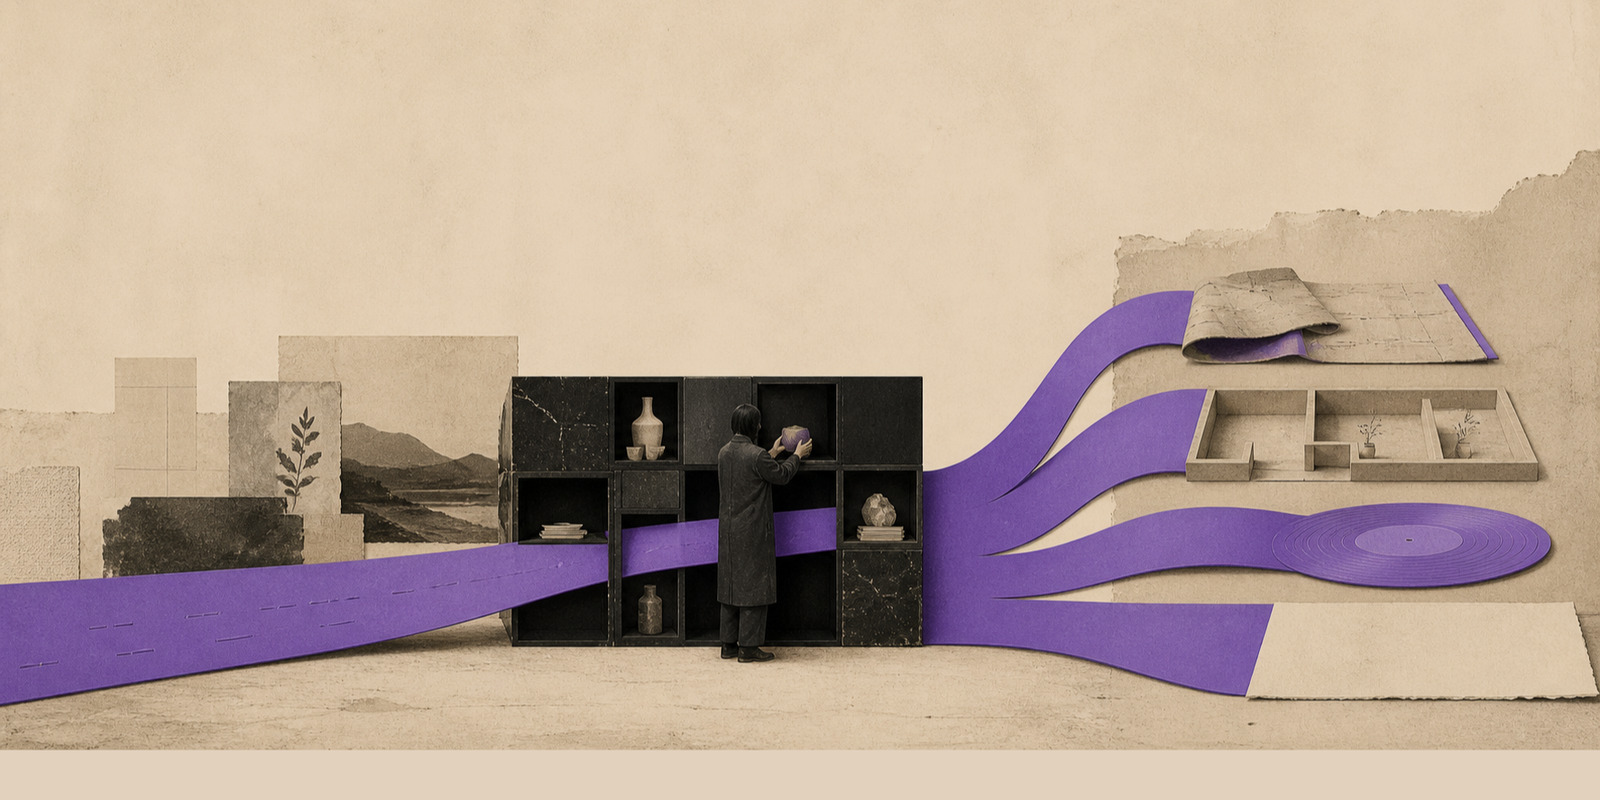
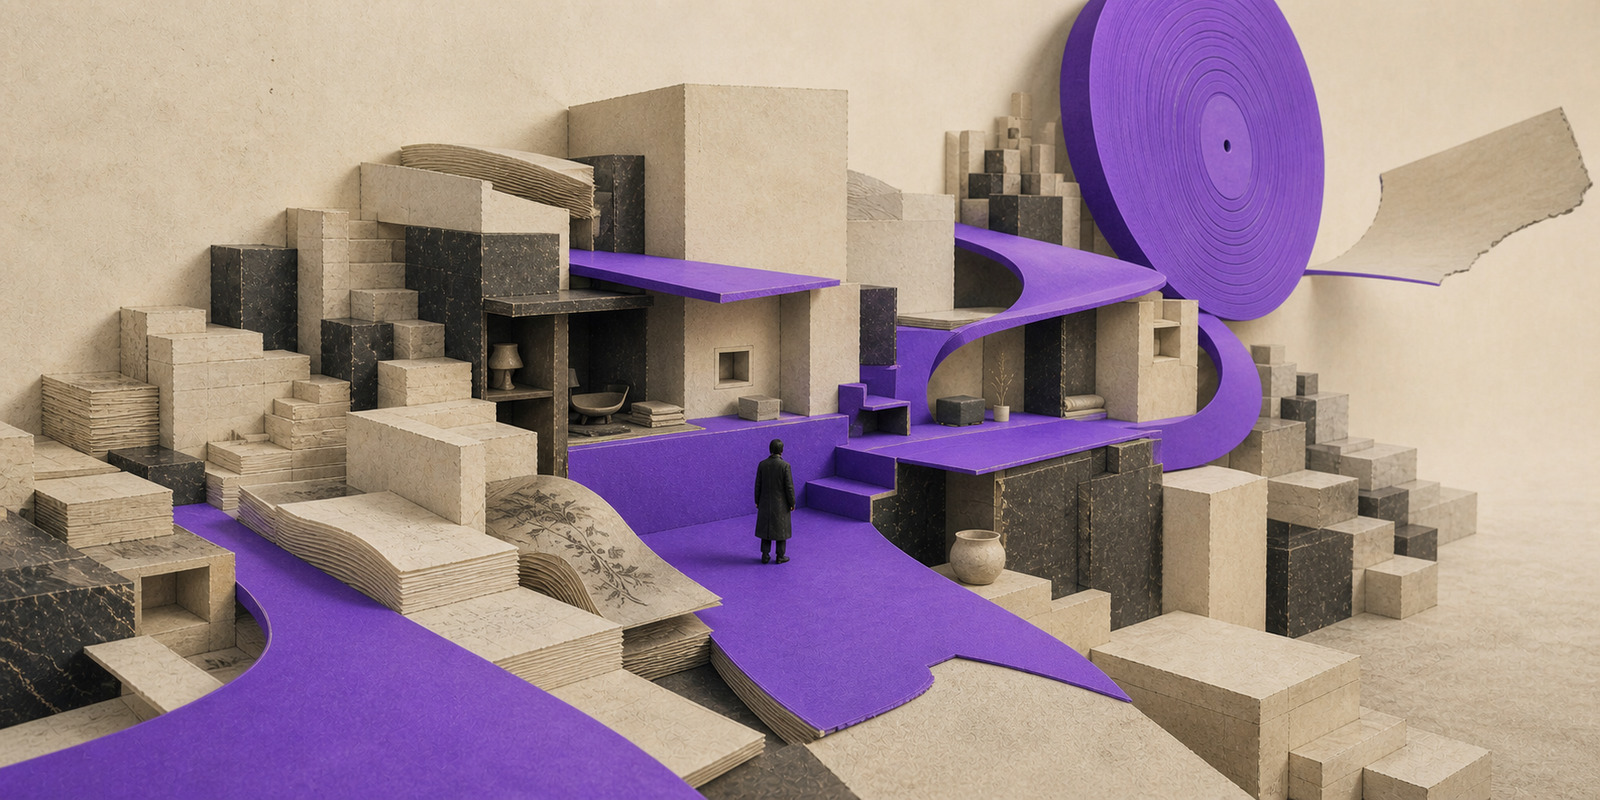
Let the Series 05 overview inhabit the same world as its three essays
The approved panorama replaces the frontal inventory diagram with one continuous purple material moving from record terrain through lived space into a monumental record, while the cache and social preview references advance together.

Constraint: Preserve all post copy and the three already deployed post heroes

Rejected: Reusing the prior split-branch banner | it no longer matched the depth and camera language of the post set

Confidence: high

Scope-risk: narrow

Directive: Keep the 20260808b cache version synchronized across manifest, loader, home, posts, sources, and tests

Tested: 66 Node tests; series-home QA gate; exact asset hash; desktop 1280 and mobile 390 browser QA

Not-tested: Live Pages, pending this commit deployment

diff --git a/series/onchain-storytelling/index.html b/series/onchain-storytelling/index.html
@@ -12,14 +12,14 @@
 <meta property="og:title" content="온체인 스토리텔링">
 <meta property="og:description" content="2023년 두 차례의 발표를 3년 뒤에 다시 쓴 포스팅 세 개. 창작의 주체가 어디로 옮겨가는가.">
 <meta property="og:url" content="https://kiheonshin.github.io/blog-post-assets/series/onchain-storytelling/">
-<meta property="og:image" content="https://kiheonshin.github.io/blog-post-assets/series/onchain-storytelling/assets/series-banner.jpg">
-<meta property="og:image:secure_url" content="https://kiheonshin.github.io/blog-post-assets/series/onchain-storytelling/assets/series-banner.jpg">
+<meta property="og:image" content="https://kiheonshin.github.io/blog-post-assets/series/onchain-storytelling/assets/series-banner.jpg?v=20260808b">
+<meta property="og:image:secure_url" content="https://kiheonshin.github.io/blog-post-assets/series/onchain-storytelling/assets/series-banner.jpg?v=20260808b">
 <meta property="og:image:type" content="image/jpeg">
 <meta property="og:image:width" content="1600">
 <meta property="og:image:height" content="800">
-<meta property="og:image:alt" content="밝은 보라색 기록의 띠가 인벤토리에서 옷·공간·음악·미술로 갈라지는 온체인 스토리텔링 파노라마">
+<meta property="og:image:alt" content="밝은 보라색 면이 종이 기록 지형과 생활 공간을 지나 거대한 레코드로 이어지는 온체인 스토리텔링 파노라마">
 <meta name="twitter:card" content="summary_large_image">
-<meta name="twitter:image" content="https://kiheonshin.github.io/blog-post-assets/series/onchain-storytelling/assets/series-banner.jpg">
+<meta name="twitter:image" content="https://kiheonshin.github.io/blog-post-assets/series/onchain-storytelling/assets/series-banner.jpg?v=20260808b">
 <script async src="https://www.googletagmanager.com/gtag/js?id=G-SQYBGPJFJ4"></script>
 <script>
 window.dataLayer=window.dataLayer||[];
@@ -292,7 +292,7 @@ main.idx-wide{width:min(100%,calc(var(--wide) + var(--gutter)*2))}
 .idx > .lead{margin:0 0 2rem;max-width:var(--measure)}
 </style>
 <link rel="stylesheet" href="../../assets/site.css?v=20260807j">
-<script type="module" src="../../assets/series-nav.js?v=20260808a"></script>
+<script type="module" src="../../assets/series-nav.js?v=20260808b"></script>
 </head>
 <body>
 <a class="skip" href="#main">본문으로 건너뛰기</a>

diff --git a/assets/content-manifest.js b/assets/content-manifest.js
@@ -331,9 +331,9 @@ export const contentLibrary = {
       topics: ["기록과 서사", "IP와 정체성", "현실과 가상"],
       keywords: ["온체인 스토리텔링", "TBA", "캐릭터 설계", "코-크리에이션"],
       href: "series/onchain-storytelling/",
-      cover: "series/onchain-storytelling/assets/series-banner.jpg?v=20260808a",
+      cover: "series/onchain-storytelling/assets/series-banner.jpg?v=20260808b",
       coverAlt:
-        "밝은 보라색 기록의 띠가 인벤토리에서 옷·공간·음악·미술로 갈라지는 온체인 스토리텔링 파노라마",
+        "밝은 보라색 면이 종이 기록 지형과 생활 공간을 지나 거대한 레코드로 이어지는 온체인 스토리텔링 파노라마",
       published: "2026-08-06",
       // 도슨트 미장착 — 음성 레인이 결속하면 status 를 올린다.
       assistantContext: {

diff --git a/index.html b/index.html
@@ -17,7 +17,7 @@
 <link rel="icon" href="assets/favicon.svg" type="image/svg+xml">
 <link rel="preload" href="series/aigc-creative-paradigm/assets/series-banner.jpg" as="image" fetchpriority="high">
 <link rel="stylesheet" href="assets/site.css?v=20260807j">
-<script type="module" src="assets/series-nav.js?v=20260808a"></script>
+<script type="module" src="assets/series-nav.js?v=20260808b"></script>
 <script async src="https://www.googletagmanager.com/gtag/js?id=G-SQYBGPJFJ4"></script>
 <script>
 window.dataLayer=window.dataLayer||[];

diff --git a/assets/series-nav.js b/assets/series-nav.js
@@ -2,7 +2,7 @@
    HTML만 새로 받고 모듈은 캐시에서 꺼내 쓰는 일이 생긴다. 그러면 새 시리즈가
    목록에서 빠지고 "시리즈 정보를 불러오지 못했습니다"가 뜬다(2026-07-25 실증).
    페이지의 series-nav.js?v= 값과 반드시 같이 올릴 것. */
-import { contentLibrary, getSeries } from "./content-manifest.js?v=20260808a";
+import { contentLibrary, getSeries } from "./content-manifest.js?v=20260808b";
 
 const siteRoot = new URL("../", import.meta.url);
 

diff --git a/series/onchain-storytelling/posts/01-worldview/index.html b/series/onchain-storytelling/posts/01-worldview/index.html
@@ -242,7 +242,7 @@ figcaption{margin-block-start:.75rem;color:var(--ink-muted);
 @media(prefers-reduced-motion:reduce){*{transition:none!important}}
 </style>
 <link rel="stylesheet" href="../../../../assets/site.css?v=20260807j">
-<script type="module" src="../../../../assets/series-nav.js?v=20260808a"></script>
+<script type="module" src="../../../../assets/series-nav.js?v=20260808b"></script>
 <script type="module" src="../../../../assets/agent-handoff.js?v=20260803a"></script>
 
 <style>

diff --git a/series/onchain-storytelling/posts/02-methodology/index.html b/series/onchain-storytelling/posts/02-methodology/index.html
@@ -242,7 +242,7 @@ figcaption{margin-block-start:.75rem;color:var(--ink-muted);
 @media(prefers-reduced-motion:reduce){*{transition:none!important}}
 </style>
 <link rel="stylesheet" href="../../../../assets/site.css?v=20260807j">
-<script type="module" src="../../../../assets/series-nav.js?v=20260808a"></script>
+<script type="module" src="../../../../assets/series-nav.js?v=20260808b"></script>
 <script type="module" src="../../../../assets/agent-handoff.js?v=20260803a"></script>
 
 <style>

diff --git a/series/onchain-storytelling/posts/03-expansion/index.html b/series/onchain-storytelling/posts/03-expansion/index.html
@@ -242,7 +242,7 @@ figcaption{margin-block-start:.75rem;color:var(--ink-muted);
 @media(prefers-reduced-motion:reduce){*{transition:none!important}}
 </style>
 <link rel="stylesheet" href="../../../../assets/site.css?v=20260807j">
-<script type="module" src="../../../../assets/series-nav.js?v=20260808a"></script>
+<script type="module" src="../../../../assets/series-nav.js?v=20260808b"></script>
 <script type="module" src="../../../../assets/agent-handoff.js?v=20260803a"></script>
 
 <style>

diff --git a/series/onchain-storytelling/sources/proposal-idea-notes/index.html b/series/onchain-storytelling/sources/proposal-idea-notes/index.html
@@ -558,7 +558,7 @@ button.frame{padding:0;cursor:zoom-in}
     margin-block-start:.7rem;font-size:1.1rem}
 }
 </style>
-<script type="module" src="../../../../assets/series-nav.js?v=20260808a"></script>
+<script type="module" src="../../../../assets/series-nav.js?v=20260808b"></script>
 </head>
 <body class="library-page source-page">
 <a class="skip" href="#main">본문으로 건너뛰기</a>

diff --git a/series/onchain-storytelling/sources/proposal-mxtwn-x/index.html b/series/onchain-storytelling/sources/proposal-mxtwn-x/index.html
@@ -561,7 +561,7 @@ button.frame{padding:0;cursor:zoom-in}
     margin-block-start:.7rem;font-size:1.1rem}
 }
 </style>
-<script type="module" src="../../../../assets/series-nav.js?v=20260808a"></script>
+<script type="module" src="../../../../assets/series-nav.js?v=20260808b"></script>
 </head>
 <body class="library-page source-page">
 <a class="skip" href="#main">본문으로 건너뛰기</a>

diff --git a/series/onchain-storytelling/sources/proposal-sapienz-town/index.html b/series/onchain-storytelling/sources/proposal-sapienz-town/index.html
@@ -558,7 +558,7 @@ button.frame{padding:0;cursor:zoom-in}
     margin-block-start:.7rem;font-size:1.1rem}
 }
 </style>
-<script type="module" src="../../../../assets/series-nav.js?v=20260808a"></script>
+<script type="module" src="../../../../assets/series-nav.js?v=20260808b"></script>
 </head>
 <body class="library-page source-page">
 <a class="skip" href="#main">본문으로 건너뛰기</a>

diff --git a/series/onchain-storytelling/sources/proposal-strategy-diagrams/index.html b/series/onchain-storytelling/sources/proposal-strategy-diagrams/index.html
@@ -558,7 +558,7 @@ button.frame{padding:0;cursor:zoom-in}
     margin-block-start:.7rem;font-size:1.1rem}
 }
 </style>
-<script type="module" src="../../../../assets/series-nav.js?v=20260808a"></script>
+<script type="module" src="../../../../assets/series-nav.js?v=20260808b"></script>
 </head>
 <body class="library-page source-page">
 <a class="skip" href="#main">본문으로 건너뛰기</a>
